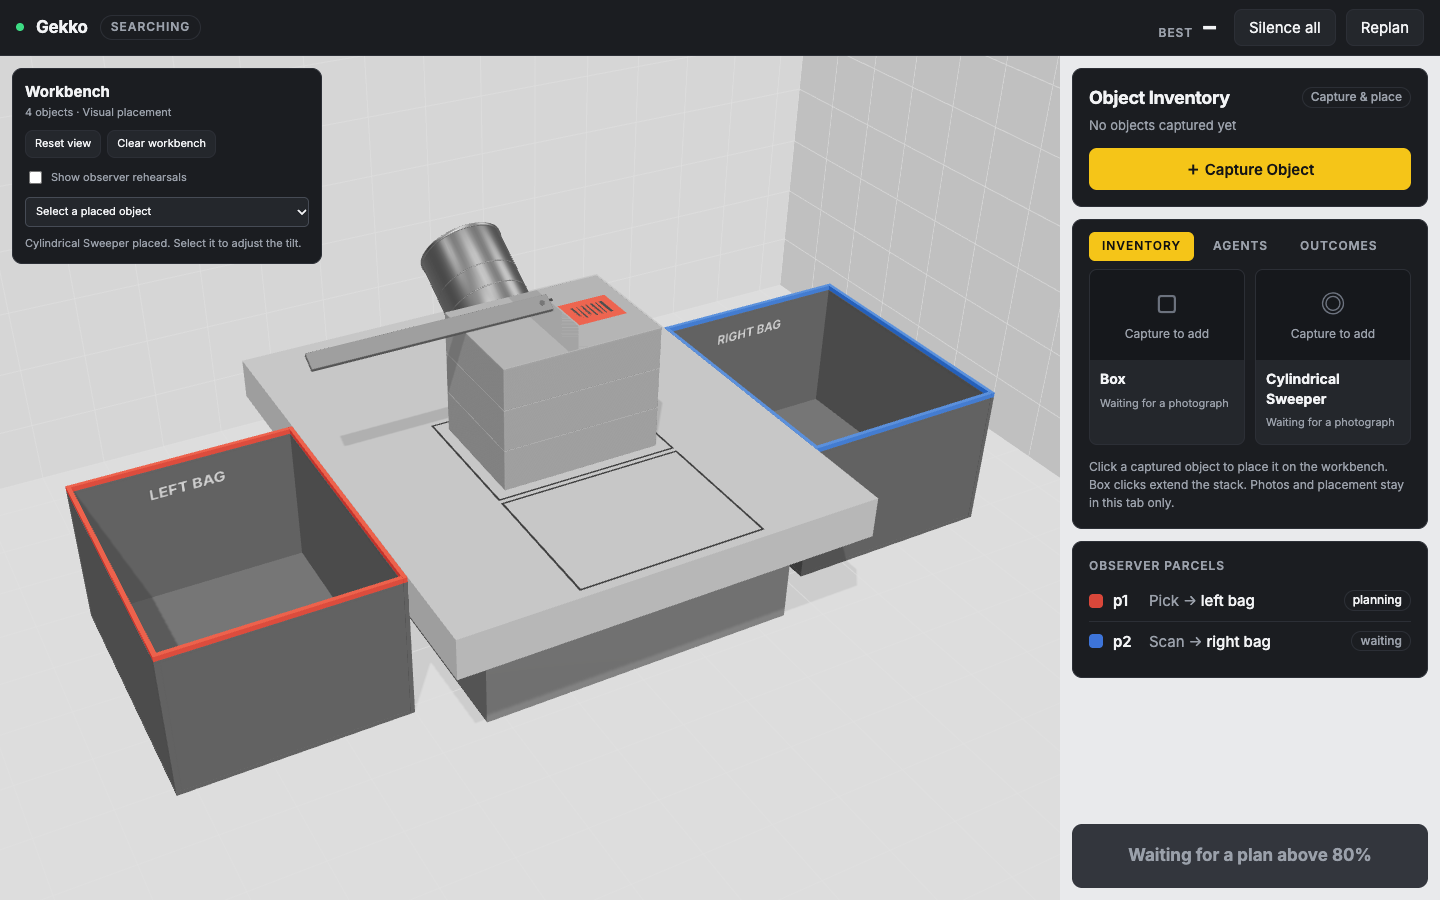
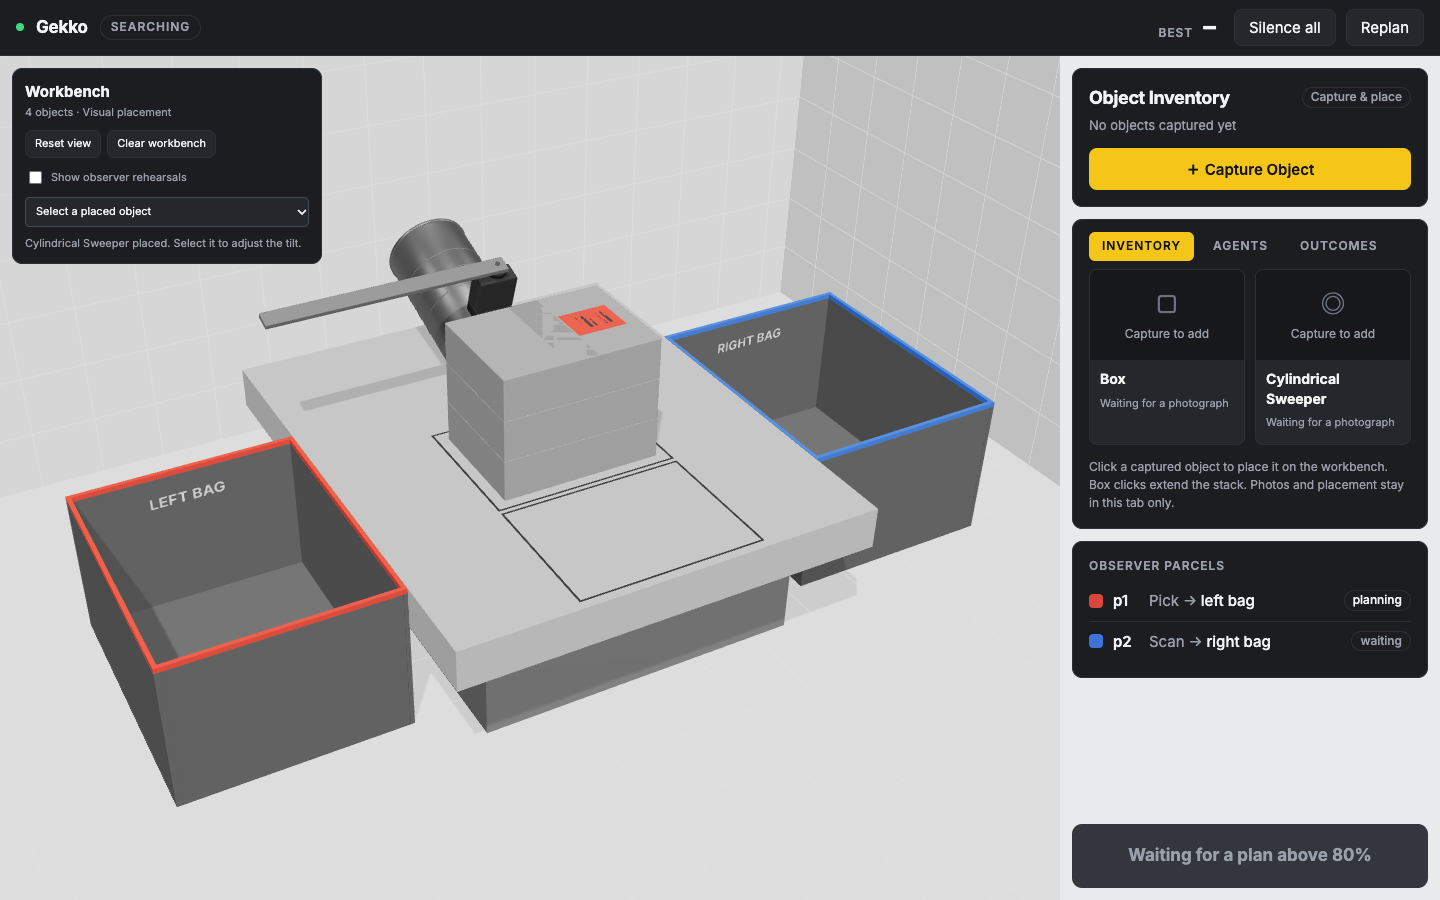
Viewer: sweeper moved back, tilt that never enters the bench, debug collisions
All values are placeholders ("measured": false), mm, z-up.

- The can's front end is now 50 mm behind the stack (centre y 265); its
  back end overhangs the bench's back edge by 10 mm. At the old 15 mm
  gap, the servo case entered the top box above about 22 deg tilt.
- Pivot checked: the front-bottom edge stays on the bench while positive
  tilt lifts the back. Limits 0 to 32.5 deg: below 0 the back enters the
  bench; above 32.5 the 145 mm stick, pointing forward, goes below the
  bench top. At 32.5 its lowest point is 1.4 mm above it. The old 35 deg
  limit put the 140 mm stick tip 2.6 mm into the bench.
- Stick 140 -> 145 mm: after the move back, 140 mm carried the top box
  only 9.7 mm past the edges.
- A new test sweeps the whole tilt range: no vertex of the can, rims,
  riser, servo or stick (every servo angle) goes below the bench top, and
  the can, riser and servo never enter a box.
- Reach per box (zero penetration of the bench and of the other boxes):
  top: works for tilt 9.5-19 deg; at 19 deg red contacts at servo 29.5
  and sweeps to 168.5, blue contacts at 148.5 and sweeps to 11.5; 11.2 mm
  past each edge.
  middle: not reachable; every pose that reaches its face cuts through
  the top box.
  bottom: not reachable; every pose that reaches its face cuts through
  the middle box.
  A longer stick (up to 180 mm) does not change this.
- Debug (D): parts that intersect another object are outlined in red,
[…]

diff --git a/docs/models.md b/docs/models.md
@@ -244,29 +244,33 @@ x × y × z because it stands on its 10 mm edge with 3 mm along the shaft.
 ## Lying-can sweeper and the sideways sort
 
 The can (diameter 50, length 90, placeholder) lies on its side along y, behind the stack
-on the bench centreline, its front end 15 mm behind the stack, resting on its rims. The
-servo sits on a 6.4 mm riser on top of the can near its front end, shaft straight up, so
-at tilt 0 the stick's underside is 10 mm above a 3-box stack. Servo 0° points the stick
-right (+x), 90° forward over the stack, 180° left. Manual tilt turns the assembly about
-an x axis through the can's front-bottom edge: positive tilt lifts the back of the can
-and lowers the stick tip. The limits are 0° to 35°; negative tilt would push the back
-into the bench. The GLB was baked upright with a horizontal shaft; `model-fit.mjs` turns
-the can, rescales its rims and ribs, turns the bracket into the riser, re-parents
-`servo_mount` to `assembly_tilt` and sets the shaft vertical at load time.
+on the bench centreline, resting on its rims. Its front end is 50 mm behind the stack, so
+its back end overhangs the bench's back edge by 10 mm and the servo stays clear of the top
+box at full tilt. The servo sits on a 6.4 mm riser near the can's front end, shaft up; at
+tilt 0 the stick's underside is 10 mm above a 3-box stack. Servo 0° points the stick right
+(+x), 90° forward, 180° left. Tilt turns the assembly about an x axis through the can's
+front-bottom edge, which stays on the bench while positive tilt lifts the back and lowers
+the tip. The limits are 0° to 32.5°: negative tilt would push the back into the bench,
+and beyond 32.5° the 145 mm stick, pointing forward, would go below the bench top (at
+32.5° its lowest point is 1.4 mm above it).
 
-Reach (kinematic, `tests/fit.test.mjs`, zero penetration of the bench and of any box
-other than the one pushed; contact within 1 mm):
+Reach (kinematic, `tests/fit.test.mjs`; zero penetration of the bench and of any box other
+than the one pushed; contact within 1 mm):
 
-- Top box: works for tilt 11.5° to 32°. At 31.5°, red goes left with first contact on
-  the right face at servo 0° and the sweep to 176°; blue goes right with contact at 179°
-  and the sweep to 4°. The contact point passes each bench edge by 10.0 mm.
-- Middle box: not reachable. The stick first reaches its side face at tilt 29.5°, but
-  tipping about the front edge also throws the servo forward over the stack, so every
-  such pose cuts through the top box.
-- Bottom box: not reachable. No tilt within limits brings the stick to its side face.
+- Top box: works for tilt 9.5° to 19°. At 19°, red goes left with first contact on the
+  right face at servo 29.5° and the sweep to 168.5°; blue goes right with contact at
+  148.5° and the sweep to 11.5°. The contact point passes each bench edge by 11.2 mm.
+  The 140 mm stick reached only 9.7 mm after the move back, so the stick is 145 mm.
+- Middle box: not reachable. Its side face is first reached at 18.5°, but every such
+  pose cuts through the top box.
+- Bottom box: not reachable. Its side face is first reached at 32.5°, but every such pose
+  cuts through the middle box.
 
-The stick's swing plane stays 86.5 mm from the pivot line, so at the stack's back face,
-15 mm in front of the pivot, it can never come lower than about 85 mm above the bench.
-Analytic trials found the middle box reachable only with the stack moved forward into
-the scan zone, a 95 mm gap and a 160 mm stick, and the bottom box in none of them.
-The kinematic check assumes the pushed box slides straight sideways.
+Lengthening the stick does not help the middle or bottom box: a longer stick lowers the
+tilt limit (forward tip into the bench) by more than it adds reach (analytic trials up to
+180 mm). The stick's swing plane stays a fixed distance from the pivot line, so with the
+servo behind the stack centreline it has to cross the boxes above to reach a lower one.
+
+In debug mode (D) any measured part that intersects another object is outlined in red
+(oriented boxes, 0.5 mm contact allowance; bags and zones are left out), and the console
+table lists what each part intersects.
